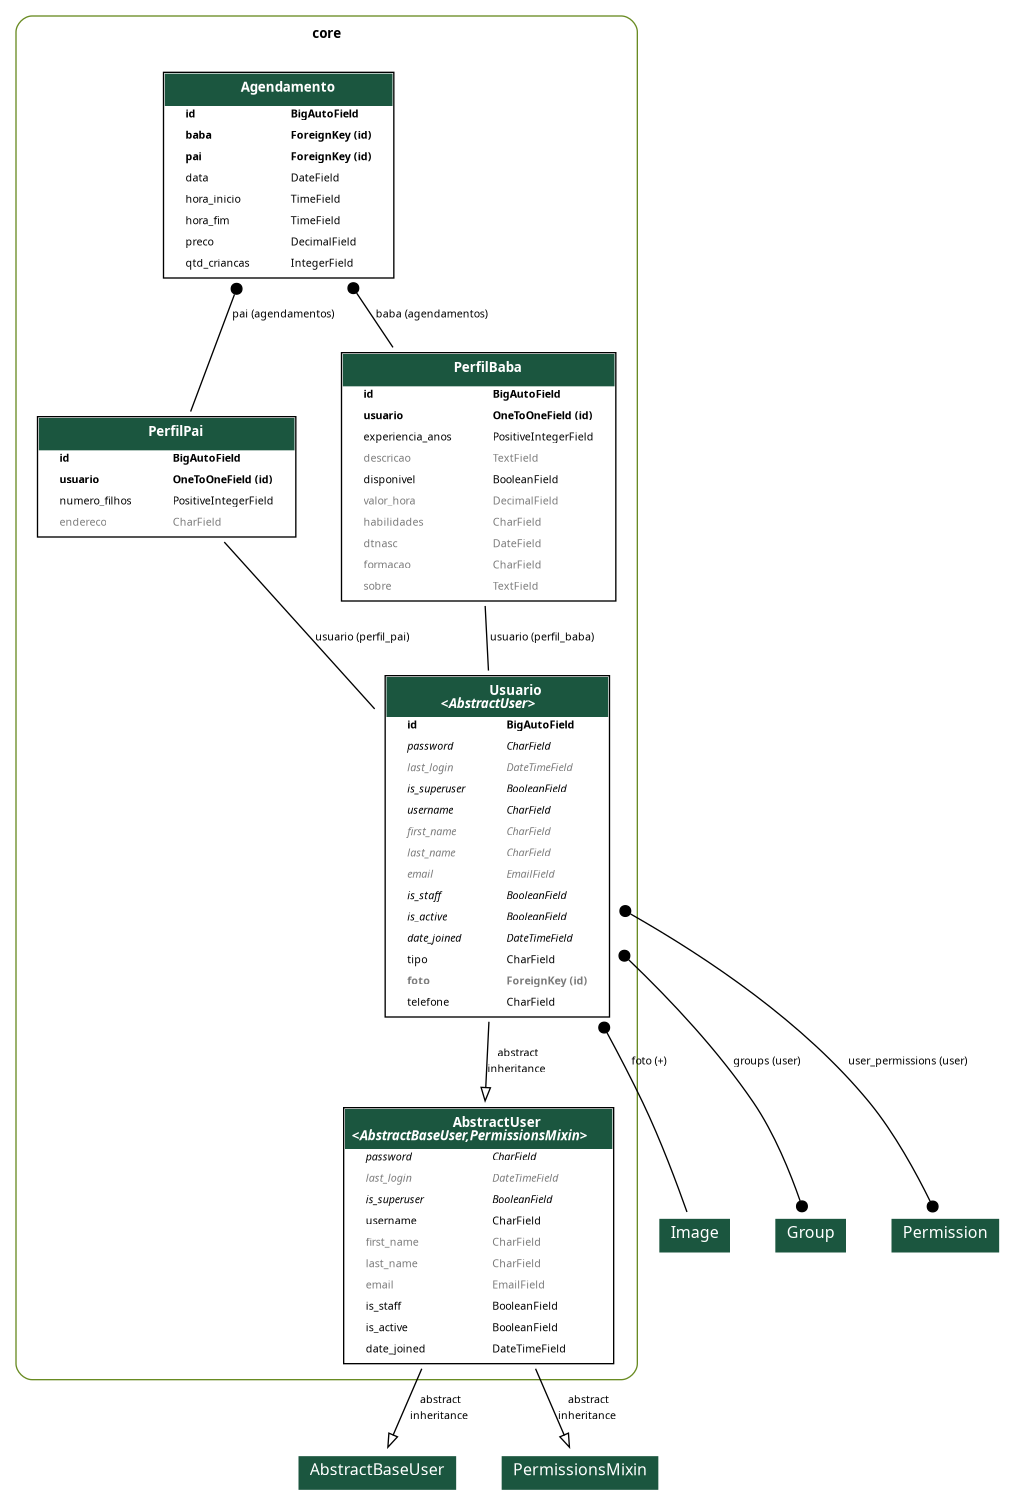
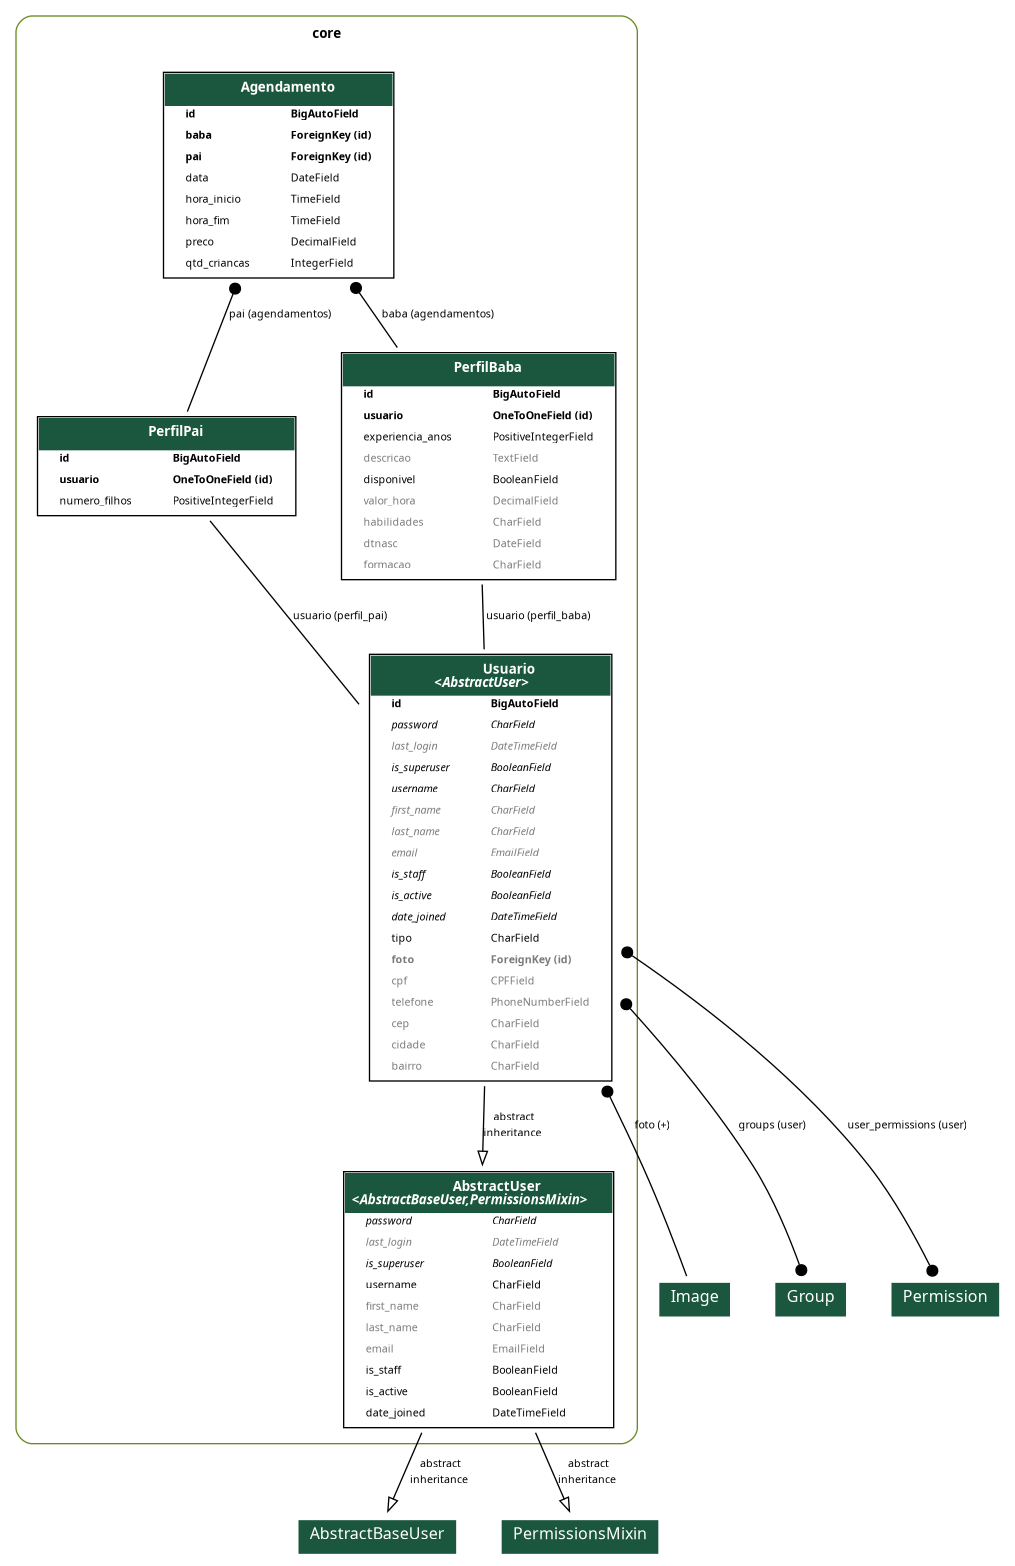
localização/cep

diff --git a/core/migrations/0006_remove_perfilpai_endereco_usuario_bairro_usuario_cep_and_more.py b/core/migrations/0006_remove_perfilpai_endereco_usuario_bairro_usuario_cep_and_more.py
@@ -1,0 +1,32 @@
+# Generated by Django 5.2.14 on 2026-06-12 11:04
+
+from django.db import migrations, models
+
+
+class Migration(migrations.Migration):
+
+    dependencies = [
+        ('core', '0005_remove_perfilbaba_sobre_usuario_cpf_and_more'),
+    ]
+
+    operations = [
+        migrations.RemoveField(
+            model_name='perfilpai',
+            name='endereco',
+        ),
+        migrations.AddField(
+            model_name='usuario',
+            name='bairro',
+            field=models.CharField(blank=True, max_length=255, null=True),
+        ),
+        migrations.AddField(
+            model_name='usuario',
+            name='cep',
+            field=models.CharField(blank=True, max_length=9, null=True),
+        ),
+        migrations.AddField(
+            model_name='usuario',
+            name='cidade',
+            field=models.CharField(blank=True, max_length=255, null=True),
+        ),
+    ]

diff --git a/core/serializers/user.py b/core/serializers/user.py
@@ -4,6 +4,7 @@ from rest_framework_simplejwt.tokens import RefreshToken
 from core.models import Usuario, PerfilPai, PerfilBaba
 from uploader.models import Image
 from uploader.serializers import ImageSerializer
+import requests
 
 
 class UserSerializer(ModelSerializer):
@@ -18,10 +19,25 @@ class UserSerializer(ModelSerializer):
 
     class Meta:
         model = Usuario
-        fields = ['id', 'username', 'first_name', 'last_name', 'email', 'tipo', 'foto', 'foto_attachment_key', 'telefone', 'is_active', 'is_staff']
-        read_only_fields = ['id', 'is_active', 'is_staff']
+        fields = ['id', 'username', 'first_name', 'last_name', 'email', 'tipo', 'foto', 'foto_attachment_key', 'telefone', 'is_active', 'is_staff', 'cpf', 'cep', 'cidade', 'bairro']
+        read_only_fields = ['id', 'is_active', 'is_staff', 'cidade', 'bairro']
 
 
+def validate_cep(self, value):
+    cep = value.replace('-', '').strip()
+    r = requests.get(f"https://viacep.com.br/ws/{cep}/json/")
+    dados = r.json()
+    if 'erro' in dados:
+        raise serializers.ValidationError("CEP inválido.")
+    return value
+
+def update(self, instance, validated_data):
+    if cep:
+        r = requests.get(f"https://viacep.com.br/ws/{cep}/json/")
+        dados = r.json()
+        validated_data['cidade'] = dados('localidade')
+        validated_data['bairro'] = dados('bairro')
+    return super().update(instance, validated_data)
 class UserRegistrationSerializer(ModelSerializer):
     password = serializers.CharField(write_only=True, min_length=8)
     access = serializers.SerializerMethodField(read_only=True)

diff --git a/core/admin.py b/core/admin.py
@@ -1,3 +1,4 @@
+import requests
 from django import forms
 from django.contrib import admin
 from django.contrib.auth.admin import UserAdmin as BaseUserAdmin
@@ -26,18 +27,27 @@ class UsuarioAdmin(BaseUserAdmin):
     fieldsets = (
         (None, {'fields': ('username', 'password')}),
         (_('Informações pessoais'), {'fields': ('first_name', 'last_name', 'email', 'cpf', 'tipo', 'foto', 'telefone')}),
+        (_('Localização'), {'fields': ('cep', 'cidade', 'bairro')}),
         (_('Permissões'), {'fields': ('is_active', 'is_staff', 'is_superuser', 'groups', 'user_permissions')}),
         (_('Datas importantes'), {'fields': ('last_login', 'date_joined')}),
     )
-    readonly_fields = ['last_login', 'date_joined']
+    readonly_fields = ['last_login', 'date_joined', 'cidade', 'bairro']
     add_fieldsets = (
         (None, {
             'classes': ('wide',),
-            'fields': ('username', 'email', 'first_name', 'last_name', 'cpf', 'tipo', 'foto', 'telefone', 'password1', 'password2', 'is_active', 'is_staff'),
+            'fields': ('username', 'email', 'first_name', 'last_name', 'cpf', 'tipo', 'foto', 'telefone', 'cep', 'password1', 'password2', 'is_active', 'is_staff'),
         }),
     )
 
     def save_model(self, request, obj, form, change):
+        cep = obj.cep
+        if cep:
+            cep_limpo = cep.replace('-', '').strip()
+            r = requests.get(f"https://viacep.com.br/ws/{cep_limpo}/json/")
+            dados = r.json()
+            if 'erro' not in dados:
+                obj.cidade = dados['localidade']
+                obj.bairro = dados['bairro']
         super().save_model(request, obj, form, change)
         if not change:
             if obj.tipo == Usuario.TipoUsuario.PAI:
@@ -48,7 +58,7 @@ class UsuarioAdmin(BaseUserAdmin):
 
 @admin.register(PerfilPai)
 class PerfilPaiAdmin(admin.ModelAdmin):
-    list_display = ['usuario', 'numero_filhos', 'endereco']
+    list_display = ['usuario', 'numero_filhos']
 
     def formfield_for_foreignkey(self, db_field, request, **kwargs):
         if db_field.name == 'usuario':

diff --git a/core/models/user.py b/core/models/user.py
@@ -6,6 +6,7 @@ from phonenumber_field.modelfields import PhoneNumberField
 from uploader.models import Image
 
 
+
 class Usuario(AbstractUser):
     class TipoUsuario(models.TextChoices):
         PAI = "PAI", "Pai/Mãe"
@@ -26,7 +27,9 @@ class Usuario(AbstractUser):
     )
     cpf = CPFField(null=True, blank=True, unique=True)
     telefone = PhoneNumberField(null=True, blank=True, region='BR')
-
+    cep = models.CharField(max_length=9, null=True, blank=True)
+    cidade = models.CharField(max_length=255, null=True, blank=True)
+    bairro = models.CharField(max_length=255, null=True, blank=True)
     def clean(self):
         if self.tipo == self.TipoUsuario.BABA and not self.foto:
             raise ValidationError({'foto': 'Foto é obrigatória para babás.'})
@@ -43,7 +46,6 @@ class PerfilPai(models.Model):
         related_name="perfil_pai",
     )
     numero_filhos = models.PositiveIntegerField(default=0)
-    endereco = models.CharField(max_length=255, null=True, blank=True)
 
 
 

diff --git a/app/settings.py b/app/settings.py
@@ -162,3 +162,5 @@ SIMPLE_JWT = {
 
 # Exibe as configurações principais para verificação
 print(f'{MODE = } \n{MEDIA_URL = } \n{DATABASES = }')
+
+